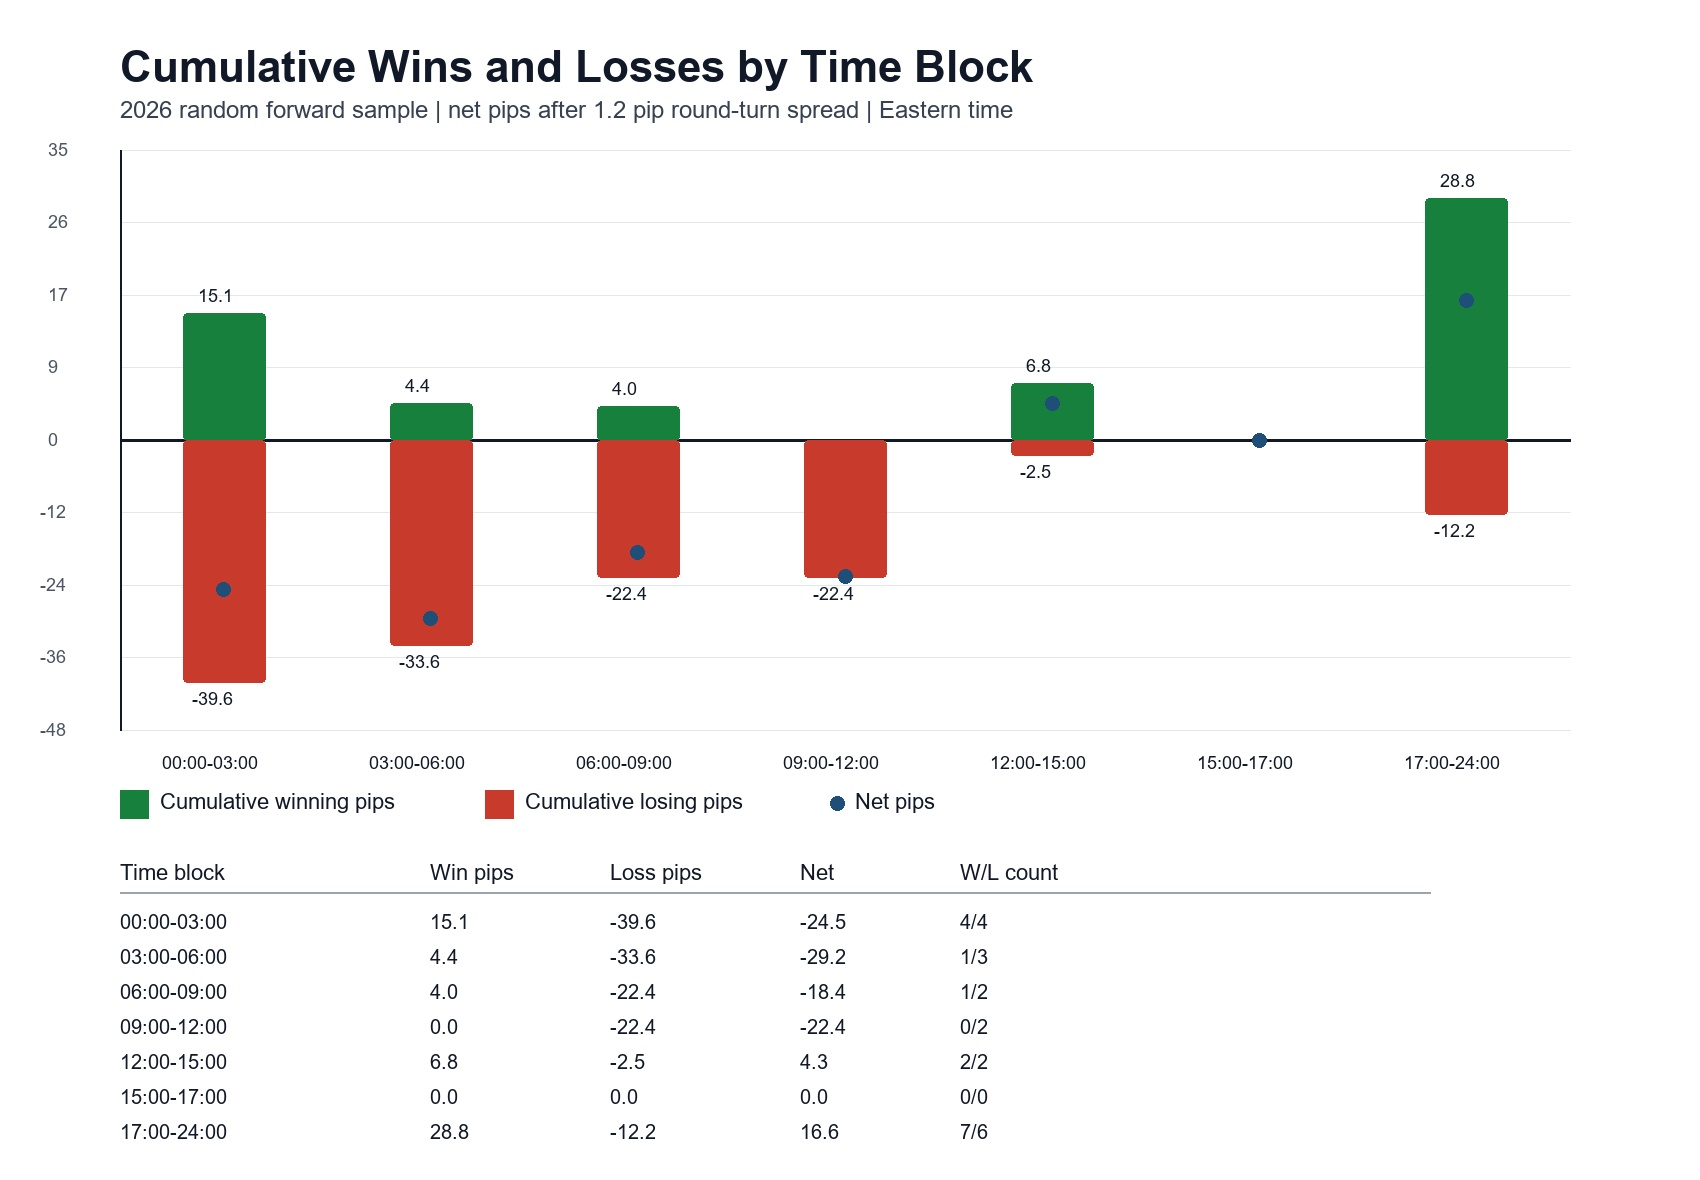
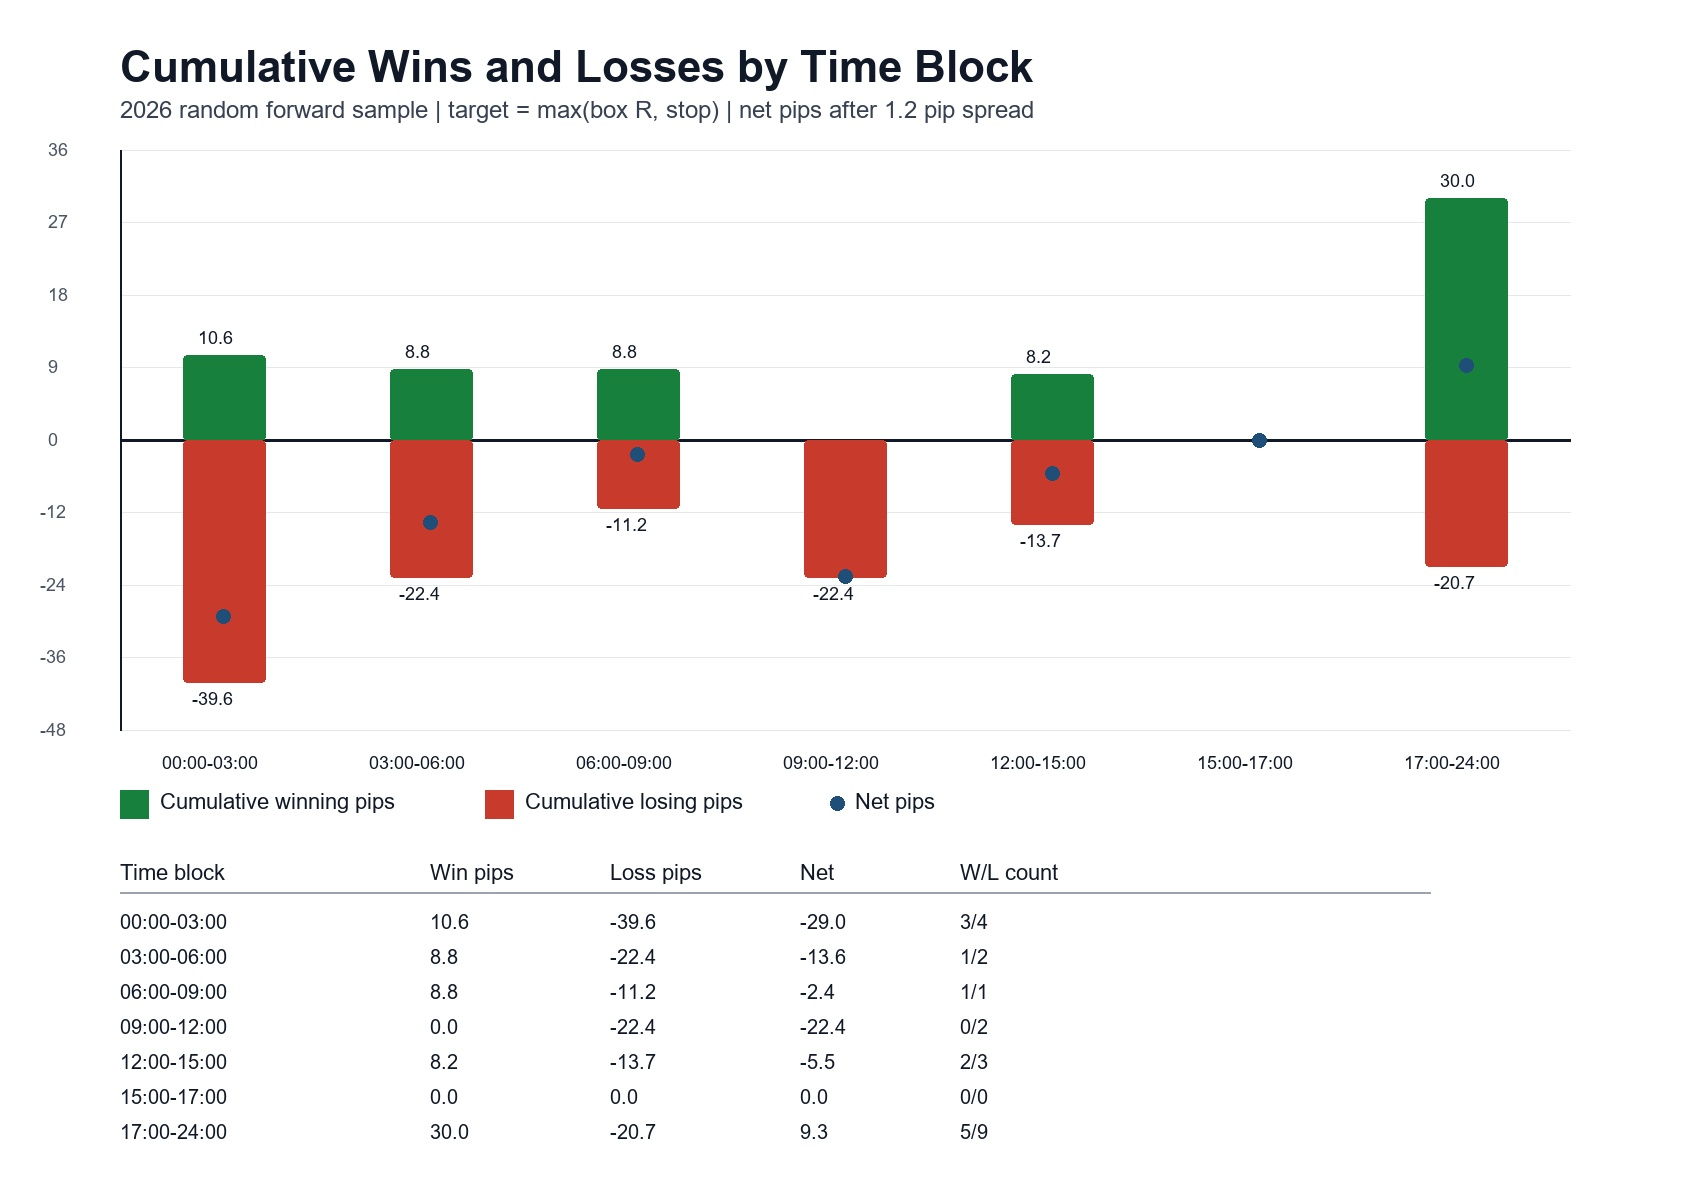
Enforce minimum one-to-one profit target

diff --git a/draw_random_day_retest_entry_chart.py b/draw_random_day_retest_entry_chart.py
@@ -8,7 +8,14 @@ from pathlib import Path
 import pandas as pd
 from PIL import Image, ImageDraw
 
-from forward_test_time_filter_random30 import MIN_TRADE_BOX_BARS, STOP_PIPS, SPREAD_PIPS, resolve_trade, time_block
+from forward_test_time_filter_random30 import (
+    MIN_TRADE_BOX_BARS,
+    STOP_PIPS,
+    SPREAD_PIPS,
+    resolve_trade,
+    target_distance_price,
+    time_block,
+)
 from make_blind_bb_training_sample import NY, PIP, fmt_est, load_5m_bars, load_font, nice_price
 from make_full_rule_test_chart import score_candidates
 
@@ -101,6 +108,7 @@ def trade_variant(
         entry_price = box_mid if variant == "mid" else box_low
     else:
         entry_price = box_mid if variant == "mid" else box_high
+    target_distance = target_distance_price(r_price)
 
     fill = find_limit_fill(window, int(signal["signal_i"]), signal["signal_time"], direction, entry_price)
     base = {
@@ -114,6 +122,8 @@ def trade_variant(
         "box_mid": box_mid,
         "box_bars": int(box["bars"]),
         "box_range_pips": round(r_price / PIP, 2),
+        "target_pips": round(target_distance / PIP, 2),
+        "reward_to_risk": round((target_distance / PIP) / STOP_PIPS, 3),
         "signal_i": int(signal["signal_i"]),
         "signal_time": signal["signal_time"],
         "signal_time_new_york": fmt_est(signal["signal_time"]),
@@ -141,10 +151,10 @@ def trade_variant(
     entry_i, entry_time = fill
     if direction == "long":
         stop_price = entry_price - STOP_PIPS * PIP
-        target_price = entry_price + r_price
+        target_price = entry_price + target_distance
     else:
         stop_price = entry_price + STOP_PIPS * PIP
-        target_price = entry_price - r_price
+        target_price = entry_price - target_distance
 
     resolved = resolve_trade(window, entry_i, entry_price, direction, stop_price, target_price, entry_time)
     return {
@@ -233,7 +243,7 @@ def draw_chart(window: pd.DataFrame, rows: list[dict], day_start_ny: pd.Timestam
     draw.text((left, 38), f"EURUSD Retest Entry Audit | {day_start_ny:%Y-%m-%d %Z}", fill=axis_color, font=title_font)
     draw.text(
         (left, 82),
-        "After breakout: short limits at box mid/high, long limits at box mid/low | 10 pip stop | 1R target",
+        "After breakout: short limits at box mid/high, long limits at box mid/low | 10 pip stop | target = max(box R, stop)",
         fill="#374151",
         font=font,
     )
@@ -353,8 +363,8 @@ def draw_chart(window: pd.DataFrame, rows: list[dict], day_start_ny: pd.Timestam
     draw.ellipse((left + 1100, legend_y + 5, left + 1122, legend_y + 27), outline=red, width=4)
     draw.text((left + 1132, legend_y), "stop exit", fill=axis_color, font=small_font)
 
-    headers = ["Box", "Var", "Filter", "Entry ET", "Dir", "Outcome", "Net", "Block", "Box R", "Bars"]
-    xs = [left, left + 55, left + 120, left + 330, left + 465, left + 545, left + 675, left + 765, left + 930, left + 1035]
+    headers = ["Box", "Var", "Filter", "Entry ET", "Dir", "Outcome", "Net", "Block", "Box R", "Target", "Bars"]
+    xs = [left, left + 55, left + 120, left + 330, left + 465, left + 545, left + 675, left + 765, left + 930, left + 1035, left + 1135]
     draw.text((left, table_top - 40), "Retest entry fills", fill=axis_color, font=label_font)
     for x, header in zip(xs, headers):
         draw.text((x, table_top), header, fill=axis_color, font=small_font)
@@ -372,6 +382,7 @@ def draw_chart(window: pd.DataFrame, rows: list[dict], day_start_ny: pd.Timestam
             f"{row['net_pips']:.1f}",
             row["time_block"],
             f"{row['box_range_pips']:.1f}",
+            f"{row['target_pips']:.1f}",
             row["box_bars"],
         ]
         row_color = red if row["entry_filter"] != "PASS" else axis_color
@@ -438,6 +449,8 @@ def main() -> None:
                 "net_pips",
                 "time_block",
                 "box_range_pips",
+                "target_pips",
+                "reward_to_risk",
                 "box_bars",
             ]
         ].to_string(index=False)

diff --git a/draw_random_day_entry_exit_chart.py b/draw_random_day_entry_exit_chart.py
@@ -8,7 +8,14 @@ from pathlib import Path
 import pandas as pd
 from PIL import Image, ImageDraw
 
-from forward_test_time_filter_random30 import MIN_TRADE_BOX_BARS, STOP_PIPS, SPREAD_PIPS, resolve_trade, time_block
+from forward_test_time_filter_random30 import (
+    MIN_TRADE_BOX_BARS,
+    STOP_PIPS,
+    SPREAD_PIPS,
+    resolve_trade,
+    target_distance_price,
+    time_block,
+)
 from make_blind_bb_training_sample import NY, PIP, fmt_est, load_5m_bars, load_font, nice_price
 from make_full_rule_test_chart import score_candidates
 
@@ -97,12 +104,13 @@ def trade_from_box(window: pd.DataFrame, box: dict, trade_id: int) -> dict | Non
 
     entry_price = float(signal["entry_price"])
     stop_offset = STOP_PIPS * PIP
+    target_distance = target_distance_price(r_price)
     if signal["direction"] == "long":
         stop_price = entry_price - stop_offset
-        target_price = entry_price + r_price
+        target_price = entry_price + target_distance
     else:
         stop_price = entry_price + stop_offset
-        target_price = entry_price - r_price
+        target_price = entry_price - target_distance
 
     resolved = resolve_trade(
         window,
@@ -128,7 +136,7 @@ def trade_from_box(window: pd.DataFrame, box: dict, trade_id: int) -> dict | Non
     if resolved["outcome"] == "target":
         later_1r_note = "target hit"
     elif same_dir_target_after_exit:
-        later_1r_note = "same-dir 1R later"
+        later_1r_note = "same-dir target later"
     elif opposite_1r_after_entry:
         later_1r_note = "opposite 1R later"
     elif any_1r_after_entry:
@@ -156,6 +164,7 @@ def trade_from_box(window: pd.DataFrame, box: dict, trade_id: int) -> dict | Non
         "entry_price": entry_price,
         "stop_price": stop_price,
         "target_price": target_price,
+        "target_pips": round(target_distance / PIP, 2),
         "exit_time": resolved["exit_time"],
         "exit_time_new_york": fmt_est(resolved["exit_time"]) if not pd.isna(resolved["exit_time"]) else "",
         "exit_price": float(resolved["exit_price"]) if not pd.isna(resolved["exit_price"]) else math.nan,
@@ -229,7 +238,7 @@ def draw_chart(window: pd.DataFrame, trades: list[dict], day_start_ny: pd.Timest
     draw.text((left, 38), title, fill=axis_color, font=title_font)
     draw.text(
         (left, 82),
-        "BB(5, 4 std) compression boxes | first breakout close | 10 pip stop | 1R target | red entries are filtered time windows",
+        "BB(5, 4 std) compression boxes | first breakout close | 10 pip stop | target = max(box R, stop)",
         fill="#374151",
         font=font,
     )
@@ -357,7 +366,7 @@ def draw_chart(window: pd.DataFrame, trades: list[dict], day_start_ny: pd.Timest
     draw.text((left + 1182, legend_y), "time exit", fill=axis_color, font=small_font)
 
     # Table.
-    headers = ["#", "Filter", "Time ET", "Dir", "Outcome", "Net pips", "Block", "Bars", "Later 1R"]
+    headers = ["#", "Filter", "Time ET", "Dir", "Outcome", "Net pips", "Block", "Bars", "Later target"]
     xs = [left, left + 45, left + 245, left + 420, left + 500, left + 645, left + 770, left + 935, left + 1015]
     draw.text((left, table_top - 40), "Trade marks", fill=axis_color, font=label_font)
     for x, header in zip(xs, headers):

diff --git a/forward_test_time_filter_random30.py b/forward_test_time_filter_random30.py
@@ -27,6 +27,11 @@ TIME_BLOCKS = [
 ]
 
 
+def target_distance_price(box_range_price: float) -> float:
+    """Profit target distance cannot be smaller than the stop distance."""
+    return max(float(box_range_price), STOP_PIPS * PIP)
+
+
 def time_block(hour: int) -> str:
     for label, start, end in TIME_BLOCKS:
         if start <= hour < end:
@@ -216,12 +221,13 @@ def trade_from_candidate(
 
     entry_price = float(signal["entry_price"])
     stop_offset = STOP_PIPS * PIP
+    target_distance = target_distance_price(r_price)
     if signal["direction"] == "long":
         stop_price = entry_price - stop_offset
-        target_price = entry_price + r_price
+        target_price = entry_price + target_distance
     else:
         stop_price = entry_price + stop_offset
-        target_price = entry_price - r_price
+        target_price = entry_price - target_distance
 
     reward_pips = abs(target_price - entry_price) / PIP
     if reward_pips <= 0:
@@ -259,6 +265,7 @@ def trade_from_candidate(
         "risk_pips": STOP_PIPS,
         "reward_pips": round(reward_pips, 2),
         "reward_to_risk": round(reward_pips / STOP_PIPS, 3),
+        "target_rule": "max_box_range_or_stop_distance",
         "outcome": resolved["outcome"],
         "exit_time_new_york": fmt_est(resolved["exit_time"]) if not pd.isna(resolved["exit_time"]) else "",
         "exit_price": round(float(resolved["exit_price"]), 5) if not pd.isna(resolved["exit_price"]) else "",
@@ -355,7 +362,7 @@ def draw_results_chart(summary: pd.DataFrame, blocks: pd.DataFrame, out_path: Pa
     draw.text((left, 42), title, fill="#111827", font=title_font)
     draw.text(
         (left, 96),
-        "EURUSD compression breakout | 10 pip stop | 1R target from entry | New York / Toronto Eastern time",
+        "EURUSD compression breakout | 10 pip stop | target = max(box R, stop) | New York / Toronto Eastern time",
         fill="#374151",
         font=subtitle_font,
     )

diff --git a/draw_retest_trade_zoom_jpegs.py b/draw_retest_trade_zoom_jpegs.py
@@ -78,6 +78,8 @@ def draw_trade_zoom(
     box_low = float(trade["box_low"])
     box_high = float(trade["box_high"])
     box_mid = float(trade["box_mid"])
+    risk_pips = abs(entry_price - stop_price) / PIP
+    target_pips = abs(target_price - entry_price) / PIP
 
     ymin = min(
         float(view["low"].min()),
@@ -208,6 +210,8 @@ def draw_trade_zoom(
         ("Variant", str(trade["variant"])),
         ("Box bars", str(int(trade["box_bars"]))),
         ("Box range", f"{float(trade['box_range_pips']):.1f} pips"),
+        ("Target dist", f"{target_pips:.1f} pips"),
+        ("R:R", f"{target_pips / risk_pips:.2f}" if risk_pips else ""),
         ("Entry", nice_price(entry_price)),
         ("Stop", nice_price(stop_price)),
         ("Target", nice_price(target_price)),

diff --git a/research_log_attempt2.md b/research_log_attempt2.md
@@ -2023,3 +2023,41 @@ Interpretation:
 - The only pass-filter fills on this random day were roughly flat to slightly negative: `-2.1` pips.
 - The filtered late-NY fill was positive but still should not be trusted because late-NY was already identified as bad/sloppy.
 - This is visually promising enough to test on the 2026 random 30-trade framework, but not enough to declare an edge.
+
+## Trade Rule Update - Minimum Target Equals Stop
+
+User correction:
+- Current trade structure was upside down: fixed `10` pip stop while many box-height targets were only `4` to `6` pips.
+- User requested minimum profit target equals stop loss.
+
+Rule update:
+- Profit target distance is now `max(compression box height, stop distance)`.
+- With the current fixed `10` pip stop, target distance is now at least `10` pips.
+- This applies to active forward-test and chart-generation scripts.
+
+Retest visual audit rerun:
+- Same random day: `2026-01-13`.
+- Same retest entries.
+- Target changed from box-height target to minimum `10` pip target.
+
+Updated retest fills:
+
+| Box | Variant | Filter | Direction | Outcome | Target pips | R:R | Net pips |
+|---:|---|---|---|---|---:|---:|---:|
+| 2 | mid | pass | long | target | 10.0 | 1.0 | 8.8 |
+| 7 | mid | filtered 15:00-17:00 | short | time exit | 10.0 | 1.0 | 4.8 |
+| 8 | mid | pass | short | time exit | 10.0 | 1.0 | -4.4 |
+| 8 | edge | pass | short | time exit | 10.0 | 1.0 | -1.5 |
+
+Same 2026 random-30 forward test rerun:
+
+| Test | Trades | Target hit | Positive net | Net pips | ROI | Max DD |
+|---|---:|---:|---:|---:|---:|---:|
+| All collected before filter | 33 | 18.2% | 36.4% | -63.6 | -3.15% | 3.41% |
+| Filtered random 30 | 30 | 16.7% | 36.7% | -50.0 | -2.49% | 2.75% |
+| Excluded 03:00-06:00 only | 3 | 33.3% | 33.3% | -13.6 | -0.68% | 1.12% |
+
+Interpretation:
+- The rule is structurally correct. No more risking `10` to make `4`.
+- But the same 2026 random-30 sample still loses after moving to minimum `1:1`.
+- The strategy still needs an entry/management improvement, not a return to bad reward/risk.
